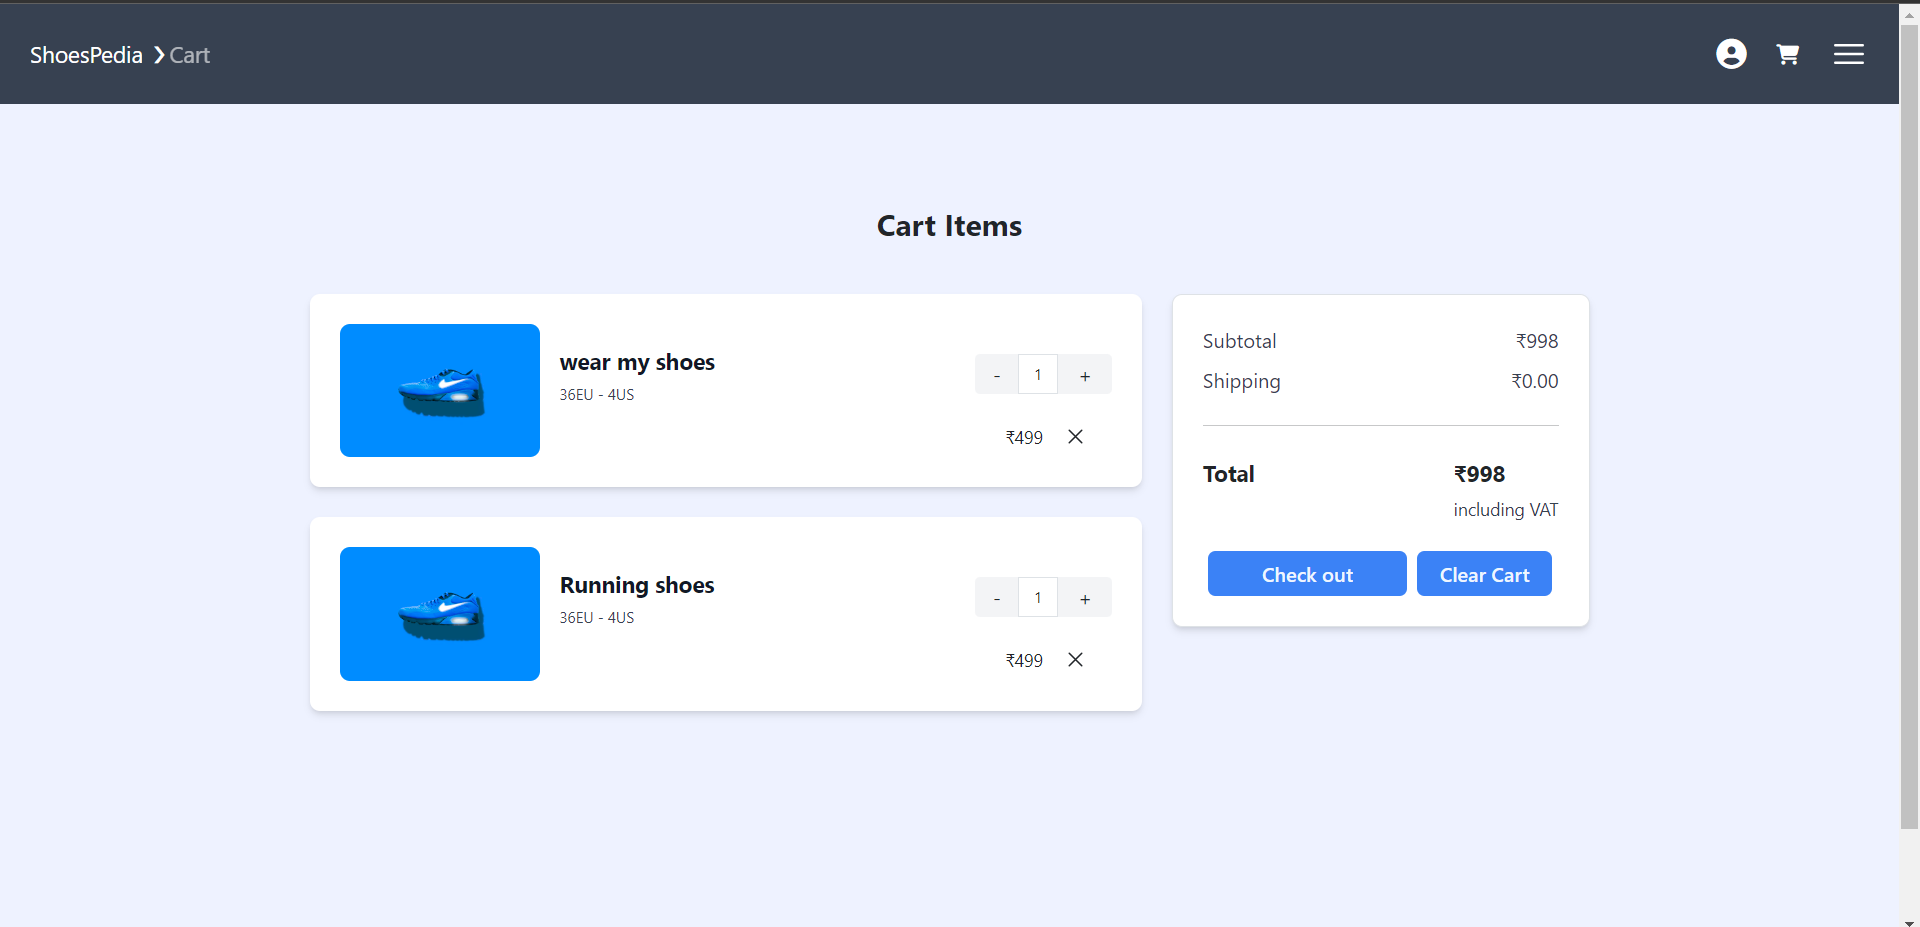
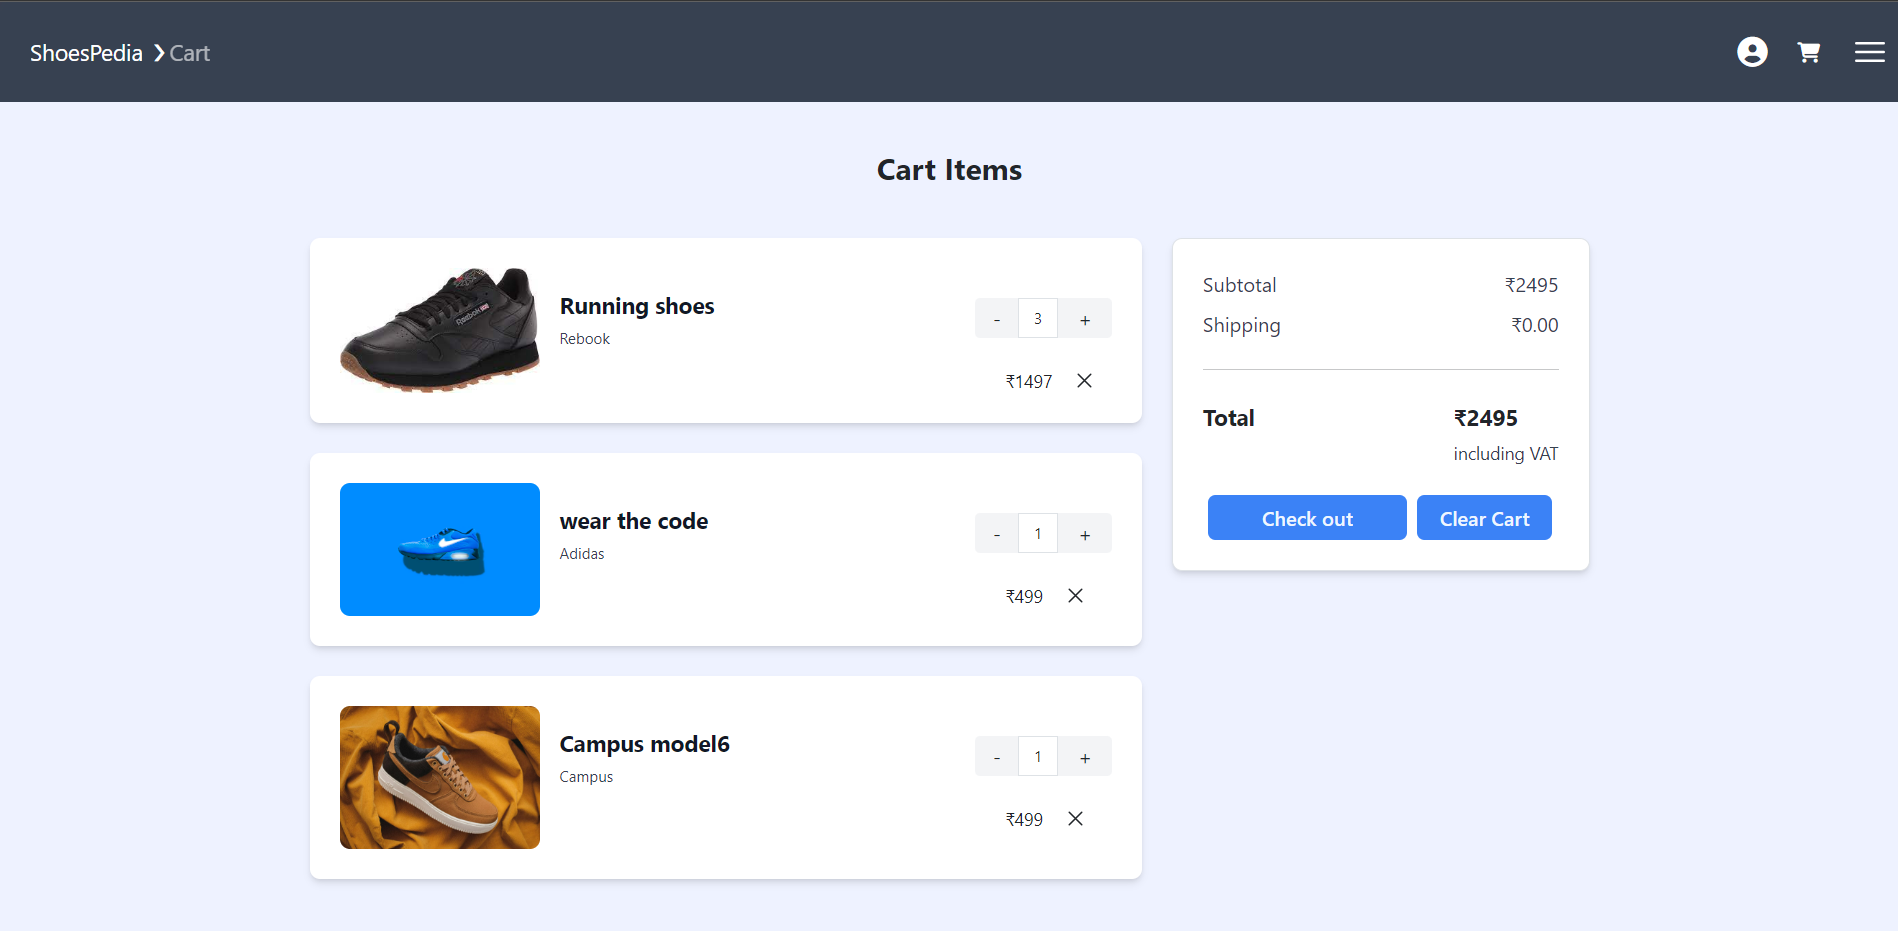
Final Changes Made

diff --git a/pages/product/[slug].js b/pages/product/[slug].js
@@ -154,8 +154,8 @@ theme="light"
           {product.availableQty>0 && <span className="title-font font-medium text-2xl text-gray-900">₹{product.price}</span>}
           {product.availableQty<=0 && <span className="title-font font-medium text-2xl text-gray-900">Out of Stock!!</span>}
           <div className="flex">
-          <button disabled={product.availableQty<=0} className="disabled:bg-indigo-300 flex ml-auto text-white bg-indigo-500 border-0 mx-2 py-2 px-6 focus:outline-none hover:bg-indigo-600 rounded"  onClick={()=>{buynow(product.slug,1,product.title,product.size,product.price,product.color)}}>Buy Now</button>
-          <button disabled={product.availableQty<=0} className="disabled:bg-indigo-300 flex ml-auto text-white bg-indigo-500 border-0 mx-2 py-2 px-6 focus:outline-none hover:bg-indigo-600 rounded"  onClick={(event)=>{event.preventDefault();addcart(product._id,1,product.title,product.size,product.price,product.color)}}>Add to Cart</button>
+          <button disabled={product.availableQty<=0} className="disabled:bg-indigo-300 flex ml-auto text-white bg-indigo-500 border-0 mx-2 py-2 px-6 focus:outline-none hover:bg-indigo-600 rounded"  onClick={()=>{buynow(product.slug,1,product.title,product.size,product.price,product.img,product.category,product.color)}}>Buy Now</button>
+          <button disabled={product.availableQty<=0} className="disabled:bg-indigo-300 flex ml-auto text-white bg-indigo-500 border-0 mx-2 py-2 px-6 focus:outline-none hover:bg-indigo-600 rounded"  onClick={(event)=>{event.preventDefault();addcart(product._id,1,product.title,product.size,product.price,product.img,product.category,product.color)}}>Add to Cart</button>
           </div>
         </div>
         <div className='my-3 flex-row items-center justify-between'>

diff --git a/pages/_app.js b/pages/_app.js
@@ -53,20 +53,20 @@ export default function App({ Component, pageProps }) {
       }
       setsubtotal(subt);
   }
-  const addcart=(itemCode,qty,name,size,price,variant)=>{
+  const addcart=(itemCode,qty,name,size,price,img,category,variant)=>{
       let mycart=cart;
       if(itemCode in mycart){
          mycart[itemCode].qty=mycart[itemCode].qty+qty;
       }
       else{
-        mycart[itemCode]={qty:1,price,name,size,variant};
+        mycart[itemCode]={qty:1,price,name,size,img,category,variant};
       }
       console.log(mycart);
       setcart(mycart);
       savecart(mycart);
       router.push(`${process.env.NEXT_PUBLIC_HOST}/cart`);
   }
-  const removecart=(itemCode,qty,price,name,size,variant)=>{
+  const removecart=(itemCode,qty,price,name,size,img,category,variant)=>{
      let mycart=cart;
      console.log("Sujal");
      if(itemCode in mycart){
@@ -83,9 +83,9 @@ export default function App({ Component, pageProps }) {
     setcart({});
     savecart({});
   }
-  const buynow=(itemCode,qty,name,size,price,variant)=>{
+  const buynow=(itemCode,qty,name,size,price,img,category,variant)=>{
         let mycart={};
-        mycart[itemCode]={qty:1,price,name,size,variant};
+        mycart[itemCode]={qty:1,price,name,size,img,category,variant};
         setcart(mycart);
         savecart(mycart);
         router.push('/checkout');

diff --git a/pages/adidas.js b/pages/adidas.js
@@ -158,7 +158,7 @@ const adidas = ({user,logout,addcart,removecart,clearcart,cart,subtotal,products
 
           <div className="mt-3 flex flex-col xl:flex-row items-start xl:items-end justify-between">
               <p className="text-lg font-bold text-blue-500">₹{products[k].price}</p>
-            <div className="flex items-center space-x-1.5 rounded-lg bg-blue-500 px-4 py-1.5 text-white duration-100 hover:bg-blue-600"  onClick={(event)=>{event.preventDefault();addcart(products[k]._id,1,products[k].title,10,499,"white")}}>
+            <div className="flex items-center space-x-1.5 rounded-lg bg-blue-500 px-4 py-1.5 text-white duration-100 hover:bg-blue-600"  onClick={(event)=>{event.preventDefault();addcart(products[k]._id,1,products[k].title,10,499,products[k].img,products[k].category,"white")}}>
               <svg xmlns="http://www.w3.org/2000/svg" fill="none" viewBox="0 0 24 24" strokeWidth="1.5" stroke="currentColor" className="h-4 w-4">
                 <path strokeLinecap="round" stroke-linejoin="round" d="M2.25 3h1.386c.51 0 .955.343 1.087.835l.383 1.437M7.5 14.25a3 3 0 00-3 3h15.75m-12.75-3h11.218c1.121-2.3 2.1-4.684 2.924-7.138a60.114 60.114 0 00-16.536-1.84M7.5 14.25L5.106 5.272M6 20.25a.75.75 0 11-1.5 0 .75.75 0 011.5 0zm12.75 0a.75.75 0 11-1.5 0 .75.75 0 011.5 0z" />
               </svg>

diff --git a/pages/bata.js b/pages/bata.js
@@ -158,7 +158,7 @@ const bata = ({user,logout,addcart,removecart,clearcart,cart,subtotal,products,c
 
           <div className="mt-3 flex flex-col xl:flex-row items-start xl:items-end justify-between">
               <p className="text-lg font-bold text-blue-500">₹{products[k].price}</p>
-            <div className="flex items-center space-x-1.5 rounded-lg bg-blue-500 px-4 py-1.5 text-white duration-100 hover:bg-blue-600"  onClick={(event)=>{event.preventDefault();addcart(products[k]._id,1,products[k].title,10,499,"white")}}>
+            <div className="flex items-center space-x-1.5 rounded-lg bg-blue-500 px-4 py-1.5 text-white duration-100 hover:bg-blue-600"  onClick={(event)=>{event.preventDefault();addcart(products[k]._id,1,products[k].title,10,499,products[k].img,products[k].category,"white")}}>
               <svg xmlns="http://www.w3.org/2000/svg" fill="none" viewBox="0 0 24 24" strokeWidth="1.5" stroke="currentColor" className="h-4 w-4">
                 <path strokeLinecap="round" stroke-linejoin="round" d="M2.25 3h1.386c.51 0 .955.343 1.087.835l.383 1.437M7.5 14.25a3 3 0 00-3 3h15.75m-12.75-3h11.218c1.121-2.3 2.1-4.684 2.924-7.138a60.114 60.114 0 00-16.536-1.84M7.5 14.25L5.106 5.272M6 20.25a.75.75 0 11-1.5 0 .75.75 0 011.5 0zm12.75 0a.75.75 0 11-1.5 0 .75.75 0 011.5 0z" />
               </svg>

diff --git a/pages/campus.js b/pages/campus.js
@@ -158,7 +158,7 @@ const nike = ({user,logout,addcart,removecart,clearcart,cart,subtotal,products,c
 
           <div className="mt-3 flex flex-col xl:flex-row items-start xl:items-end justify-between">
               <p className="text-lg font-bold text-blue-500">₹{products[k].price}</p>
-            <div className="flex items-center space-x-1.5 rounded-lg bg-blue-500 px-4 py-1.5 text-white duration-100 hover:bg-blue-600"  onClick={(event)=>{event.preventDefault();addcart(products[k]._id,1,products[k].title,10,499,"white")}}>
+            <div className="flex items-center space-x-1.5 rounded-lg bg-blue-500 px-4 py-1.5 text-white duration-100 hover:bg-blue-600"  onClick={(event)=>{event.preventDefault();addcart(products[k]._id,1,products[k].title,10,499,products[k].img,products[k].category,"white")}}>
               <svg xmlns="http://www.w3.org/2000/svg" fill="none" viewBox="0 0 24 24" strokeWidth="1.5" stroke="currentColor" className="h-4 w-4">
                 <path strokeLinecap="round" stroke-linejoin="round" d="M2.25 3h1.386c.51 0 .955.343 1.087.835l.383 1.437M7.5 14.25a3 3 0 00-3 3h15.75m-12.75-3h11.218c1.121-2.3 2.1-4.684 2.924-7.138a60.114 60.114 0 00-16.536-1.84M7.5 14.25L5.106 5.272M6 20.25a.75.75 0 11-1.5 0 .75.75 0 011.5 0zm12.75 0a.75.75 0 11-1.5 0 .75.75 0 011.5 0z" />
               </svg>

diff --git a/pages/nike.js b/pages/nike.js
@@ -158,7 +158,7 @@ const nike = ({user,logout,addcart,removecart,clearcart,cart,subtotal,products,c
 
           <div className="mt-3 flex flex-col xl:flex-row items-start xl:items-end justify-between">
               <p className="text-lg font-bold text-blue-500">₹{products[k].price}</p>
-            <div className="flex items-center space-x-1.5 rounded-lg bg-blue-500 px-4 py-1.5 text-white duration-100 hover:bg-blue-600"  onClick={(event)=>{event.preventDefault();addcart(products[k]._id,1,products[k].title,10,499,"white")}}>
+            <div className="flex items-center space-x-1.5 rounded-lg bg-blue-500 px-4 py-1.5 text-white duration-100 hover:bg-blue-600"  onClick={(event)=>{event.preventDefault();addcart(products[k]._id,1,products[k].title,10,499,products[k].img,products[k].category,"white")}}>
               <svg xmlns="http://www.w3.org/2000/svg" fill="none" viewBox="0 0 24 24" strokeWidth="1.5" stroke="currentColor" className="h-4 w-4">
                 <path strokeLinecap="round" stroke-linejoin="round" d="M2.25 3h1.386c.51 0 .955.343 1.087.835l.383 1.437M7.5 14.25a3 3 0 00-3 3h15.75m-12.75-3h11.218c1.121-2.3 2.1-4.684 2.924-7.138a60.114 60.114 0 00-16.536-1.84M7.5 14.25L5.106 5.272M6 20.25a.75.75 0 11-1.5 0 .75.75 0 011.5 0zm12.75 0a.75.75 0 11-1.5 0 .75.75 0 011.5 0z" />
               </svg>

diff --git a/pages/puma.js b/pages/puma.js
@@ -158,7 +158,7 @@ const nike = ({user,logout,addcart,removecart,clearcart,cart,subtotal,products,c
 
           <div className="mt-3 flex flex-col xl:flex-row items-start xl:items-end justify-between">
               <p className="text-lg font-bold text-blue-500">₹{products[k].price}</p>
-            <div className="flex items-center space-x-1.5 rounded-lg bg-blue-500 px-4 py-1.5 text-white duration-100 hover:bg-blue-600"  onClick={(event)=>{event.preventDefault();addcart(products[k]._id,1,products[k].title,10,499,"white")}}>
+            <div className="flex items-center space-x-1.5 rounded-lg bg-blue-500 px-4 py-1.5 text-white duration-100 hover:bg-blue-600"  onClick={(event)=>{event.preventDefault();addcart(products[k]._id,1,products[k].title,10,499,products[k].img,products[k].category,"white")}}>
               <svg xmlns="http://www.w3.org/2000/svg" fill="none" viewBox="0 0 24 24" strokeWidth="1.5" stroke="currentColor" className="h-4 w-4">
                 <path strokeLinecap="round" stroke-linejoin="round" d="M2.25 3h1.386c.51 0 .955.343 1.087.835l.383 1.437M7.5 14.25a3 3 0 00-3 3h15.75m-12.75-3h11.218c1.121-2.3 2.1-4.684 2.924-7.138a60.114 60.114 0 00-16.536-1.84M7.5 14.25L5.106 5.272M6 20.25a.75.75 0 11-1.5 0 .75.75 0 011.5 0zm12.75 0a.75.75 0 11-1.5 0 .75.75 0 011.5 0z" />
               </svg>

diff --git a/pages/rebook.js b/pages/rebook.js
@@ -159,7 +159,7 @@ export default function Home({user,logout,addcart,removecart,clearcart,cart,subt
 
           <div className="mt-3 flex flex-col xl:flex-row items-start xl:items-end justify-between">
               <p className="text-lg font-bold text-blue-500">₹{products[k].price}</p>
-            <div className="flex items-center space-x-1.5 rounded-lg bg-blue-500 px-4 py-1.5 text-white duration-100 hover:bg-blue-600"  onClick={(event)=>{event.preventDefault();addcart(products[k]._id,1,products[k].title,10,499,"white")}}>
+            <div className="flex items-center space-x-1.5 rounded-lg bg-blue-500 px-4 py-1.5 text-white duration-100 hover:bg-blue-600"  onClick={(event)=>{event.preventDefault();addcart(products[k]._id,1,products[k].title,10,499,products[k].img,products[k].category,"white")}}>
               <svg xmlns="http://www.w3.org/2000/svg" fill="none" viewBox="0 0 24 24" strokeWidth="1.5" stroke="currentColor" className="h-4 w-4">
                 <path strokeLinecap="round" stroke-linejoin="round" d="M2.25 3h1.386c.51 0 .955.343 1.087.835l.383 1.437M7.5 14.25a3 3 0 00-3 3h15.75m-12.75-3h11.218c1.121-2.3 2.1-4.684 2.924-7.138a60.114 60.114 0 00-16.536-1.84M7.5 14.25L5.106 5.272M6 20.25a.75.75 0 11-1.5 0 .75.75 0 011.5 0zm12.75 0a.75.75 0 11-1.5 0 .75.75 0 011.5 0z" />
               </svg>

diff --git a/pages/cart.js b/pages/cart.js
@@ -27,11 +27,11 @@ const cart = (props) => {
         </div>}
        {Object.keys(cart).map((k)=>{
         return <div className="justify-between mb-6 rounded-lg bg-white p-6 shadow-md sm:flex sm:justify-start" key={k}>
-          <img src="https://images.unsplash.com/photo-1515955656352-a1fa3ffcd111?ixlib=rb-4.0.3&ixid=MnwxMjA3fDB8MHxwaG90by1wYWdlfHx8fGVufDB8fHx8&auto=format&fit=crop&w=1170&q=80" alt="product-image" className="w-full rounded-lg sm:w-40" />
+          <img src={cart[k].img} alt="product-image" className="w-full rounded-lg sm:w-40" />
           <div className="sm:ml-4 sm:flex sm:w-full sm:justify-between">
             <div className="mt-3 sm:mt-0">
               <h2 className="text-lg font-bold text-gray-900">{cart[k].name}</h2>
-              <p className="mt-1 text-xs text-gray-700">36EU - 4US</p>
+              <p className="mt-1 text-xs text-gray-700">{cart[k].category}</p>
             </div>
             <div className="mt-4 flex justify-between sm:space-y-6 sm:mt-0 sm:block sm:space-x-6">
               <div className="flex items-center border-gray-100">

diff --git a/pages/checkout.js b/pages/checkout.js
@@ -246,7 +246,7 @@ theme="light"
                 {Object.keys(cart).map((k)=>{
                 return <li class="grid grid-cols-6 gap-2 border-b-1">
                     <div class="col-span-1 self-center">
-                        <img src="https://bit.ly/3oW8yej" alt="Product" class="rounded w-full"/>
+                        <img src={cart[k].img} alt="Product" class="rounded w-full"/>
                     </div>
                     <div class="flex flex-col col-span-3 pt-2">
                         <span class="text-gray-600 text-md font-semi-bold">{cart[k].name}</span>
